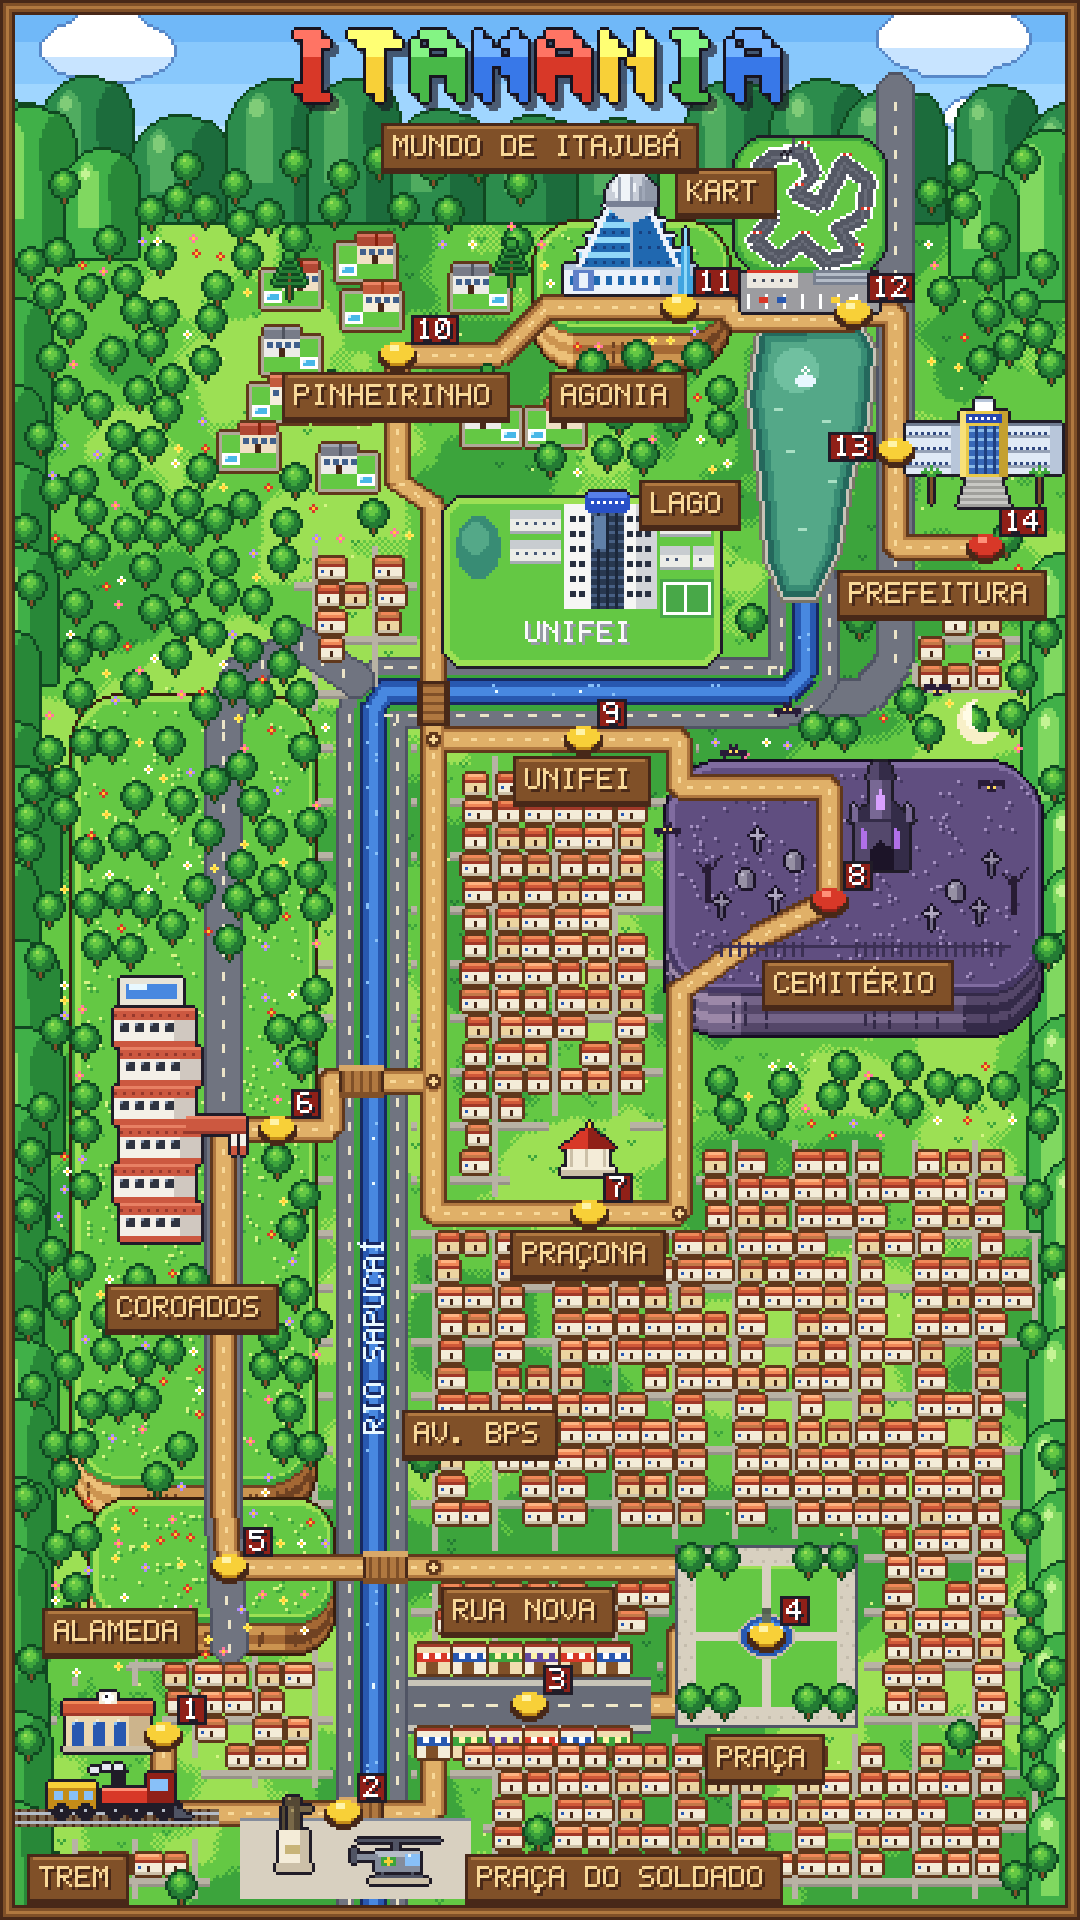
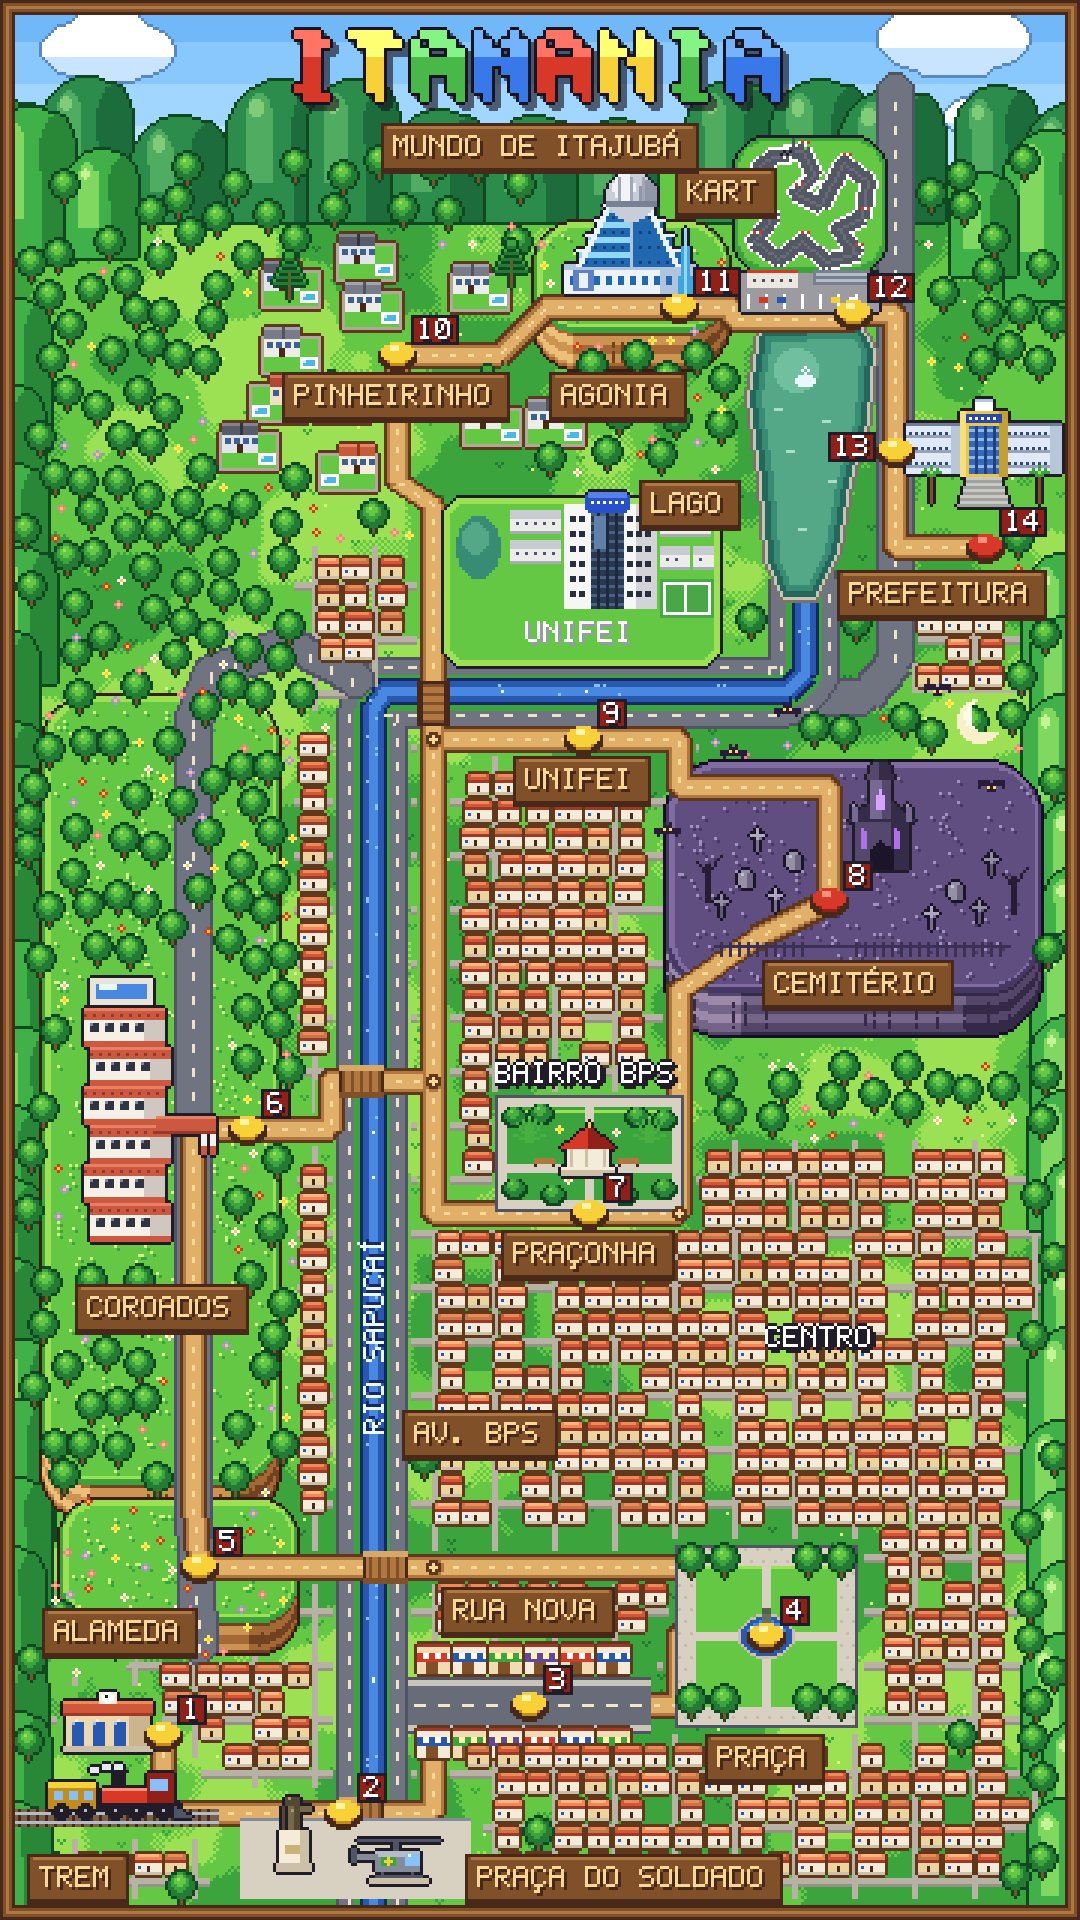
Mapa do Itamania: região do BPS refeita e Praçonha
Bairro BPS dos dois lados da avenida (morro do Coroados um pouco a oeste),
nomes BAIRRO BPS e CENTRO no chão, Praçonha quadrada e verde com plantas,
bancos, flores e coreto.

Claude-Session: https://claude.ai/code/session_01PQYRHDQbqQUf94eH7bEkMV

diff --git a/ferramentas/mapa-mundi/gerar_mapa.py b/ferramentas/mapa-mundi/gerar_mapa.py
@@ -1301,8 +1301,8 @@ def main():
 
     # ----- planaltos: Coroados (morro comprido a oeste da BPS), Alameda, Agonia e cemitério
     morros = camada()
-    planalto(morros, 24, 232, 104, 494, 12, raio=16)   # Coroados: crista comprida norte-sul
-    planalto(morros, 30, 500, 110, 540, 10, raio=12)   # Alameda: morro com a rua
+    planalto(morros, 14, 232, 92, 494, 12, raio=16)   # Coroados: crista comprida norte-sul
+    planalto(morros, 20, 500, 98, 540, 10, raio=12)   # Alameda: morro com a rua
     planalto(morros, 178, 74, 242, 110, 12, raio=14)   # Agonia
     base.alpha_composite(morros)
     esc = camada()
@@ -1368,7 +1368,7 @@ def main():
     praca = (226, 516, 284, 574)   # Praça: um quadrado
     ruanova = (138, 560, 214, 576)  # Rua Nova: rua larga
     MARCOS = [
-        ('hotel', m_hotel_coroados(), (59, 418)),
+        ('hotel', m_hotel_coroados(), (49, 418)),
         ('unifei', m_unifei_v2(), (194, 222)),
         ('prefeitura', m_prefeitura_itajuba(), (328, 170)),
         ('kart', m_kart_pista(), (270, 104)),
@@ -1385,14 +1385,14 @@ def main():
     dl.rectangle([praca[0] - 3, praca[1] - 3, praca[2] + 3, praca[3] + 3], fill=255)
     dl.rectangle([ruanova[0] - 8, ruanova[1] - 9, ruanova[2] + 4, ruanova[3] + 3], fill=255)
     dl.rectangle([226, 254, 344, 352], fill=255)  # topo do cemitério
-    dl.rectangle([170, 380, 222, 402], fill=255)  # Praçona
+    dl.rectangle([164, 364, 228, 404], fill=255)  # Praçonha
     dl.rectangle([70, 596, 160, 632], fill=255)   # Praça do Soldado
     dl.rectangle([0, 598, 70, 612], fill=255)     # trilho
 
     # ----- rota das fases
     N = {
         'trem': (54, 578), 'soldado': (114, 604), 'ruanova': (176, 568), 'praca': (255, 545),
-        'alameda': (76, 522), 'coroados': (92, 376), 'pracona': (196, 404), 'cemiterio': (276, 300),
+        'alameda': (66, 522), 'coroados': (82, 376), 'pracona': (196, 404), 'cemiterio': (276, 300),
         'unifei': (194, 246), 'pinheirinho': (132, 118), 'agonia': (226, 102), 'kart': (284, 104),
         'lago': (298, 150), 'prefeitura': (328, 182),
         'j1': (144, 522), 'j2': (144, 360), 'j3': (144, 246), 'j4': (226, 404),
@@ -1403,7 +1403,7 @@ def main():
         [N['ruanova'], (226, 568), (226, 545), N['praca']],
         [N['praca'], (255, 522), N['j1']],
         [N['j1'], (102, 522), N['alameda']],
-        [N['alameda'], (74, 500), (74, 376), N['coroados']],
+        [N['alameda'], (64, 500), (64, 376), N['coroados']],
         [N['coroados'], (110, 376), (110, 360), N['j2']],
         [N['j2'], (144, 404), N['pracona']],
         [N['pracona'], N['j4'], (226, 330), (252, 312), N['cemiterio']],
@@ -1450,6 +1450,14 @@ def main():
                     continue
                 ocup[y - 6:y + 1, x - 4:x + 5] = True
                 casas.append((x, y))
+    # bairro BPS também do lado oeste da avenida: uma fileira de casas entre o morro e a pista
+    for y in range(252, 512, 9):
+        x = 104
+        if ocup[y - 6:y + 1, x - 4:x + 5].any() or relevo[y - 6:y + 1, x - 4:x + 5].any():
+            continue
+        ocup[y - 6:y + 1, x - 4:x + 5] = True
+        casas.append((x, y))
+
     # Pinheirinho: bairro das mansões (as maiores casas da cidade), com piscina
     mansoes = []
     for _ in range(4000):
@@ -1480,7 +1488,7 @@ def main():
         arvores.append((x, y))
 
     # ----- caminhos
-    rua_coroados = [(76, 548), (74, 500), (74, 240), (80, 224), (100, 214), (118, 226)]
+    rua_coroados = [(66, 548), (64, 500), (64, 240), (70, 224), (96, 214), (118, 226)]
     linha_grossa(d, rua_coroados, 13, C['ci0'])
     linha_grossa(d, rua_coroados, 11, (112, 116, 128))
     for (x0, y0), (x1, y1) in zip(rua_coroados, rua_coroados[1:]):
@@ -1526,6 +1534,31 @@ def main():
                         ret(d, x - 5, y - 7, x + 5, y + 7, C['mad0'])
                         for yy in range(y - 6, y + 7):
                             ret(d, x - 3, yy, x + 3, yy, C['mad2'] if yy % 3 else C['mad1'])
+
+    # ----- Praçonha: a praça no meio do bairro BPS, bem verde, cheia de plantas, bancos e o coreto
+    x0, y0, x1, y1 = 166, 366, 226, 402
+    ret(d, x0 - 1, y0 - 1, x1 + 1, y1 + 1, C['ci0'])
+    ret(d, x0, y0, x1, y1, (216, 208, 192))
+    ret(d, x0 + 3, y0 + 3, x1 - 3, y1 - 3, C['g1'])
+    ret(d, x0 + 4, y0 + 4, x1 - 4, y0 + 4, C['g3'])
+    ret(d, (x0 + x1) // 2 - 1, y0 + 3, (x0 + x1) // 2 + 1, y1 - 3, (216, 208, 192))
+    ret(d, x0 + 3, (y0 + y1) // 2 + 4, x1 - 3, (y0 + y1) // 2 + 6, (216, 208, 192))
+    folha = [(40, 132, 56), (72, 176, 64), (120, 208, 80)]
+    for bx, by_ in [(171, 372), (180, 371), (212, 372), (221, 373), (171, 396), (221, 396), (184, 398), (208, 398)]:
+        d.ellipse([bx - 4, by_ - 3, bx + 4, by_ + 3], fill=rgba(C['gl']))
+        d.ellipse([bx - 3, by_ - 3, bx + 3, by_ + 2], fill=rgba(folha[0]))
+        d.ellipse([bx - 2, by_ - 3, bx + 1, by_], fill=rgba(folha[1]))
+        px(d, bx - 1, by_ - 2, folha[2])
+    for bx, by_ in [(176, 380), (216, 380)]:  # plantas altas de folhas compridas
+        for dx, dy in ((-4, -6), (4, -6), (-5, -2), (5, -2), (0, -8), (-2, -7), (2, -7)):
+            d.line([(bx, by_), (bx + dx, by_ + dy)], fill=rgba(folha[1]))
+        px(d, bx, by_ - 8, folha[2])
+    for fx, fy in [(186, 376), (205, 377), (189, 393), (203, 394)]:
+        flor(base, fx, fy, random.choice([(255, 120, 160), C['br'], (255, 236, 96)]))
+    for bx, by_ in [(181, 386), (209, 386)]:  # bancos
+        ret(d, bx - 3, by_, bx + 3, by_ + 1, C['mad2'])
+        px(d, bx - 3, by_ + 2, C['mad0'])
+        px(d, bx + 3, by_ + 2, C['mad0'])
 
     # ----- Praça (quadrado) e Rua Nova (rua larga)
     x0, y0, x1, y1 = praca
@@ -1661,7 +1694,7 @@ def main():
 
     PLACAS = [
         ('TREM', 26, 618), ('PRAÇA DO SOLDADO', 208, 618), ('RUA NOVA', 176, 529), ('PRAÇA', 255, 578),
-        ('ALAMEDA', 40, 536), ('COROADOS', 64, 428), ('PRAÇONA', 196, 410), ('CEMITÉRIO', 286, 320),
+        ('ALAMEDA', 40, 536), ('COROADOS', 54, 428), ('PRAÇONHA', 196, 410), ('CEMITÉRIO', 286, 320),
         ('UNIFEI', 194, 252), ('PINHEIRINHO', 132, 124), ('AGONIA', 206, 124), ('KART', 242, 56),
         ('LAGO', 230, 160), ('PREFEITURA', 314, 190), ('AV. BPS', 160, 470),
     ]
@@ -1677,6 +1710,10 @@ def main():
         ret(d, bx0, by0, bx0 + t.width + 2, by0 + t.height + 1, C['preto'])
         ret(d, bx0 + 1, by0 + 1, bx0 + t.width + 1, by0 + t.height, C['vm2'])
         base.alpha_composite(t, (bx0 + 2, by0 + 1))
+
+    for txt, bx, by_ in [('BAIRRO BPS', 196, 352), ('CENTRO', 274, 440)]:
+        t = contorno(texto_img(txt, C['br'], C['preto']), C['preto'])
+        base.alpha_composite(t, (bx - t.width // 2, by_))
 
     t = texto_img('RIO SAPUCAÍ', C['a4'], C['a0'])
     tv = t.rotate(90, expand=True)

diff --git a/references/mapa/proposta-mapa.md b/references/mapa/proposta-mapa.md
@@ -66,6 +66,21 @@
 - **Pinheirinho:** é conhecido pelas maiores casas da cidade. No mapa virou o bairro das mansões, com casas grandes,
   piscina, gramado e muro, além das araucárias.
 
+## BPS e Praçonha (04/11/2026)
+
+- **Av. BPS** (Av. Benedito Pereira dos Santos): sobe do centro, perto da Magazine Luiza, de sul para norte. Logo abaixo da
+  UNIFEI vira para leste e segue até o Parque da Cidade (lago), com o canteiro no meio. "BPS" é também o nome do
+  bairro, que fica dos dois lados da avenida. O Centro fica a leste.
+- **Mudanças no mapa:**
+  - o morro do Coroados foi um pouco para oeste, para caber casas do bairro BPS também do lado oeste da avenida;
+  - "BAIRRO BPS" e "CENTRO" estão escritos no chão;
+  - a praça no meio do bairro é a **Praçonha**, o apelido local. Ela é quadrada, cheia de plantas, com bancos, flores e
+    o coreto.
+- **Referência à maconha:** o Pedro sugeriu, mas ficou de fora porque o público inclui crianças e o projeto pode ir para
+  a Prefeitura. Se ele confirmar depois de pesar isso, entra.
+- **Dúvida:** no satélite, o canteiro da BPS parece um córrego, e o Rio Sapucaí passa mais ao sul, perto de São Vicente.
+  Confirmar se o rio do canteiro deve continuar com o nome "Rio Sapucaí".
+
 ## O que o mapa mostra
 
 - **Formato em pé.** O eixo central de Itajubá é a **Av. BPS**, com o **Rio Sapucaí** correndo no meio dela. A avenida sobe pela
@@ -78,7 +93,7 @@
   - **Praça:** um quadrado com árvores nos cantos, caminhos em cruz e a fonte com o busto no meio.
 - **Alameda:** um morro com a rua subindo.
 - **Coroados:** rua no alto do morro, com o hotel no meio (ver acima).
-- **Praçona:** praça com coreto.
+- **Praçonha:** praça verde no meio do bairro BPS, com coreto.
 - **Cemitério:** no alto do morro, numa área mais sombria em roxo, com cruzes, lápides, cerca, árvores secas, morcegos,
   lua e uma capelinha gótica com vitral roxo. É assustador de brincadeira, nada que dê medo de verdade.
 - **Na parte de cima:**
@@ -99,7 +114,7 @@
 | 4 | Praça | Fonte com o busto; jatos d'água que levantam o herói |
 | 5 | Alameda | Subida do morro |
 | 6 | Coroados | Rua no alto do morro até o hotel; fase vertical |
-| 7 | Praçona | Coreto |
+| 7 | Praçonha | Praça verde com coreto |
 | 8 | Cemitério | "Casa assombrada" leve: morcegos, a capelinha gótica e caminhos que mudam. Ponto vermelho = saída secreta |
 | 9 | UNIFEI | Laboratório e roda-d'água; plataformas que giram |
 | 10 | Pinheirinho | Telhados e araucárias |
@@ -120,7 +135,7 @@
 
 ## A confirmar com o Pedro
 
-1. **Fotos:** estação/trem, Praçona, a Praça (é a do Theodomiro?) e Rua Nova.
+1. **Fotos:** estação/trem, Praçonha, a Praça (é a do Theodomiro?) e Rua Nova.
 2. **Prefeitura:** o caderno diz "cadastrar pessoas". Se o jogo for coletar dados, isso precisa ser decidido antes,
    porque a regra 5 do projeto proíbe coletar dados pessoais.
 3. **Figurões:** onde entram? Pessoas vivas só com o OK delas.
